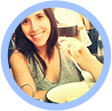
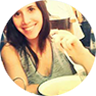
added top-rated section to feed page

diff --git a/public/index.html b/public/index.html
@@ -21,7 +21,7 @@
         <section>
           <p class="greeting">Hello</p>
           <h3 class="name">Ilana Krybus</h3>
-          <div>
+          <div class="date-container">
             <svg id="date_icon" xmlns="http://www.w3.org/2000/svg" xmlns:xlink="http://www.w3.org/1999/xlink"
                  version="1.1"
                  x="0px" y="0px" viewBox="-2.357 -2.951 1024 1280" enable-background="new -2.357 -2.951 1024 1024" xml:space="preserve"><polygon display="none" stroke="#000000" stroke-width="40" stroke-miterlimit="10" points="66.643,373.927   512.931,38.939 958.643,373.927 958.643,997.158 667.503,997.158 667.477,623.219 362.678,623.193 362.678,997.158 66.643,997.158   "/><path display="none" stroke="#000000" stroke-width="40" stroke-miterlimit="10" d="M691.643,222.494  c0,102.725-83.275,186-186,186c-102.725,0-186-83.275-186-186s83.275-186,186-186C608.368,36.494,691.643,119.769,691.643,222.494z   M797.643,762.604c0-141.385-114.615-256-256-256h-72c-141.385,0-256,114.615-256,256v228h584V762.604z"/><path display="none" fill="none" stroke="#000000" stroke-width="40" stroke-miterlimit="10" d="M996.452,158.049  v696h-968v-696H996.452z M28.452,158.049l398,387c0,0,86,95,190,0l380-387 M996.452,854.049l-343.84-347.445 M28.452,854.049  l359.654-347.445"/><path display="none" stroke="#000000" stroke-width="40" stroke-miterlimit="10" d="M316.252,412.859  c0,0,96.009,189.019,288.029,288.029c0,0,21.255,6.243,45.254-17.756l37.498-35.999c0,0,25.499-38.997,86.996-7.499L948.02,741.629  c0,0,61.497,25.498,0,85.495L834.026,942.618c0,0-25.498,47.997-152.992,19.499c0,0-433.789-114.215-622.808-612.265  c0,0-42.004-90.009,18.002-162.016L202.24,60.823c0,0,51.315-42.16,76.814,17.837l92.995,176.991c0,0,34.499,40.498-9,85.496  l-38.998,35.998C324.052,377.145,303.373,390.142,316.252,412.859z"/><path display="none" fill="none" stroke="#000000" stroke-width="40" stroke-miterlimit="10" d="M57.413,404.149  h327h246h327 M342.423,254.049c25.5-145.6,161.9-137.89,161.9-137.89s136.58-10.71,168.08,137.89 M913.413,254.049h-812  c-24.3,0-44,19.7-44,44v568c0,24.3,19.7,44,44,44h812c24.301,0,44-19.7,44-44v-568C957.413,273.749,937.713,254.049,913.413,254.049  z M630.413,459.049c0,24.3-19.699,44-44,44h-158c-24.3,0-44-19.7-44-44v-55h246V459.049z"/><path display="none" d="M999.756,449.591c0,125.565-121.096,233.427-294.189,280.345L552.958,883.877l-41.166-128.914  c-269.497,0-487.966-136.719-487.966-305.372c0-168.651,218.469-305.37,487.966-305.37  C781.288,144.221,999.756,280.94,999.756,449.591z M232.894,409.631c-29.124,0-52.733,23.609-52.733,52.733  c0,29.123,23.609,52.732,52.733,52.732s52.733-23.609,52.733-52.732C285.627,433.241,262.018,409.631,232.894,409.631z   M512.228,409.631c-29.125,0-52.734,23.609-52.734,52.733c0,29.122,23.609,52.731,52.734,52.731  c29.122,0,52.731-23.609,52.731-52.731C564.959,433.241,541.35,409.631,512.228,409.631z M778.542,409.631  c-29.123,0-52.732,23.609-52.732,52.733c0,29.122,23.609,52.731,52.732,52.731c29.122,0,52.731-23.609,52.731-52.731  C831.273,433.241,807.664,409.631,778.542,409.631z"/><path display="none" fill="none" stroke="#000000" stroke-width="40" stroke-miterlimit="10" d="M982.51,268.844  v471.057c0,56.333-45.667,102-102,102H145.417c-56.333,0-102-45.667-102-102V172.825h741.074v565.066  c0,0-5.768,104.011,85.728,104.735 M880.717,270.155v506.738 M136.429,319.848h543.054 M679.483,441.859H136.429 M136.429,563.87  h306.03 M442.459,685.882H136.429"/><path display="none" stroke="#000000" stroke-width="40" stroke-miterlimit="10" d="M365.415,791.131  c0,92.189-74.736,166.927-166.927,166.927c-92.192,0-166.928-74.737-166.928-166.927c0-92.193,74.736-166.928,166.928-166.928  C290.679,624.203,365.415,698.938,365.415,791.131z M558.806,21.636c-84.321,0-152.677,68.356-152.677,152.677  c0,84.322,68.356,152.678,152.677,152.678c84.322,0,152.68-68.356,152.68-152.678C711.486,89.992,643.128,21.636,558.806,21.636z   M865.875,728.053c-73.079,0-132.319,59.242-132.319,132.321s59.24,132.32,132.319,132.32s132.32-59.241,132.32-132.32  S938.954,728.053,865.875,728.053z M733.555,860.374l-370.618-40.479 M473.582,301.007L269.981,640.255"/><path display="none" stroke="#000000" stroke-width="40" stroke-miterlimit="10" d="M595.688,923.844  c0,41.536-33.67,75.205-75.205,75.205l0,0c-41.533,0-75.203-33.669-75.203-75.205V370.069c0-41.534,33.67-75.204,75.203-75.204l0,0  c41.535,0,75.205,33.67,75.205,75.204V923.844z M520.484,21.395c-52.861,0-95.714,42.853-95.714,95.714  c0,52.862,42.853,95.714,95.714,95.714s95.714-42.852,95.714-95.714C616.198,64.248,573.345,21.395,520.484,21.395z"/><polygon display="none" stroke="#000000" stroke-width="40" stroke-miterlimit="10" points="527.467,127.833   47.419,509.049 527.467,880.909 527.467,691.89 965.511,690.889 965.511,325.854 527.467,325.853 "/><polygon display="none" stroke="#000000" stroke-width="40" stroke-miterlimit="10" points="484.641,880.909   964.689,499.694 484.641,127.834 484.641,316.854 46.597,317.854 46.597,682.89 484.641,682.89 "/><path display="none" fill="none" stroke="#000000" stroke-width="40" stroke-miterlimit="10" d="M989.542,510.458  c0,263.848-213.891,477.738-477.738,477.738S34.065,774.306,34.065,510.458c0-263.849,213.891-477.738,477.738-477.738  S989.542,246.609,989.542,510.458z M732.326,513.644H295.285 M495.483,702.477L291.282,513.644l204.201-195.205"/><path display="none" fill="none" stroke="#000000" stroke-width="40" stroke-miterlimit="10" d="M34.065,510.458  c0-263.848,213.891-477.738,477.738-477.738S989.542,246.61,989.542,510.458c0,263.849-213.891,477.738-477.738,477.738  S34.065,774.307,34.065,510.458z M291.281,507.272h437.041 M528.124,318.439l204.201,188.833L528.124,702.478"/><path display="none" fill="none" stroke="#000000" stroke-width="40" stroke-miterlimit="10" d="M511.883,760.457  l-0.16-499.999 M761.803,510.377l-500,0.16 M987.381,509.048c0,263.848-213.891,477.739-477.738,477.739  S31.905,772.896,31.905,509.048c0-263.848,213.891-477.738,477.738-477.738S987.381,245.201,987.381,509.048z"/><path display="none" fill="none" stroke="#000000" stroke-width="40" stroke-miterlimit="10" d="M511.883,760.457   M761.803,510.377l-500,0.16 M987.381,509.049c0,263.848-213.891,477.738-477.738,477.738S31.905,772.896,31.905,509.049  c0-263.848,213.891-477.738,477.738-477.738S987.381,245.201,987.381,509.049z"/><path display="none" fill="none" stroke="#000000" stroke-width="40" stroke-miterlimit="10" d="M688.523,333.623  L335.084,687.289 M334.97,333.736l353.666,353.44 M987.381,509.048c0,263.848-213.891,477.739-477.738,477.739  S31.905,772.896,31.905,509.048c0-263.848,213.891-477.738,477.738-477.738S987.381,245.201,987.381,509.048z"/><circle display="none" fill="none" stroke="#000000" stroke-width="40" stroke-miterlimit="10" cx="451.507" cy="449.111" r="415.798"/><polyline display="none" stroke="#000000" stroke-width="40" stroke-miterlimit="10" points="716.703,770.242 921.415,985.453   977.35,929.517 771.609,713.277 "/><circle display="none" fill="none" stroke="#000000" stroke-width="40" stroke-miterlimit="10" cx="454.621" cy="448.776" r="415.798"/><polyline display="none" stroke="#000000" stroke-width="40" stroke-miterlimit="10" points="719.816,769.908 924.528,985.119   980.463,929.182 774.722,712.943 "/><line display="none" fill="none" stroke="#000000" stroke-width="40" stroke-miterlimit="10" x1="454.62" y1="607.793" x2="454.62" y2="289.761"/><line display="none" fill="none" stroke="#000000" stroke-width="40" stroke-miterlimit="10" x1="295.604" y1="448.777" x2="613.637" y2="448.777"/><circle display="none" fill="none" stroke="#000000" stroke-width="40" stroke-miterlimit="10" cx="454.621" cy="448.776" r="415.798"/><polyline display="none" stroke="#000000" stroke-width="40" stroke-miterlimit="10" points="719.816,769.908 924.528,985.119   980.463,929.182 774.722,712.943 "/><line display="none" fill="none" stroke="#000000" stroke-width="40" stroke-miterlimit="10" x1="295.604" y1="448.777" x2="613.637" y2="448.777"/><polygon display="none" stroke="#000000" stroke-width="40" stroke-miterlimit="10" points="514.963,64.942   655.765,353.34 982.616,404.611 748.789,648.148 799.962,968.59 514.963,817.982 223.167,968.59 280.847,648.148 43.719,404.611   373.776,353.34 "/><path display="none" stroke="#000000" stroke-width="40" stroke-miterlimit="10" d="M511.059,138.027  c0,0,277.105-171.473,441.071,60.519c0,0,113.213,181.046-19.33,387.3c0,0-104.596,197.247-421.741,363.518  c0,0-287.485-143.595-411.168-347.374c0,0-140.345-188.672-36.18-392.091C63.711,209.898,184.678-37.482,511.059,138.027z"/><path display="none" stroke="#000000" stroke-width="40" stroke-miterlimit="10" d="M126.643,848.049l132-348c0,0,20-76,68-74  s630,0.961,630,0.961s60,7.039,40,67.039l-136,354H126.643z"/><path display="none" fill="none" stroke="#000000" stroke-width="40" stroke-miterlimit="10" d="M876.643,358.049c0,0,0-50-56-54  h-428l-66-120h-256c0,0-46,0-48,54v492c0,0,6,54,56,54"/><path display="none" stroke="#000000" stroke-width="40" stroke-miterlimit="10" d="M891.973,221.419h-761  c-55.24,0-100.03,44.78-100.03,100.03v427.57c0,55.24,44.79,100.03,100.03,100.03h761c55.25,0,100.03-44.79,100.03-100.03v-427.57  C992.003,266.199,947.223,221.419,891.973,221.419z M511.473,756.379c-122.13,0-221.14-99.01-221.14-221.15  c0-122.13,99.01-221.14,221.14-221.14c122.14,0,221.14,99.01,221.14,221.14C732.613,657.369,633.613,756.379,511.473,756.379z   M637.003,113.299h-251.05c-55.25,0-100.03,50.67-100.03,105.91h451.11C737.033,163.969,692.243,113.299,637.003,113.299z"/><path display="none" stroke="#000000" stroke-width="40" stroke-miterlimit="10" d="M881.813,461.159l101.3-73.4  l-52.62-125.4l-120.68,16.8l-62.17-60V85.629l-110.11-44.11l-81.72,95.64h-80l-79.35-97.43l-120.65,47.87v131.56l-64,60  l-119.97-8.85l-47.96,117.45l95.93,77.4v92l-94.14,83.529l44.54,107.891h135.6l50,61.58l-12.06,117.01l132.71,54.88l69.35-94.89h100  l71.72,91.89l124.95-51.43l-14.84-120.46l58.17-58.58h130.97l44.53-107.891l-99.5-85.529V461.159z M513.493,734.259  c-123.359,0-223.37-100-223.37-223.37c0-123.37,100.01-223.37,223.37-223.37c123.37,0,223.381,100,223.381,223.37  C736.874,634.259,636.863,734.259,513.493,734.259z"/><path display="none" stroke="#000000" stroke-width="40" stroke-miterlimit="10" d="M678.591,567.232  c0,88.896-72.064,160.961-160.961,160.961l0,0c-88.896,0-160.96-72.065-160.96-160.961V186.01  c0-88.896,72.064-160.961,160.96-160.961l0,0c88.896,0,160.961,72.064,160.961,160.961V567.232z"/><path display="none" fill="none" stroke="#000000" stroke-width="40" stroke-miterlimit="10" d="M256.069,564.354  c0,144.456,117.104,261.561,261.561,261.561l0,0c144.456,0,261.562-117.104,261.562-261.561"/><line display="none" fill="none" stroke="#000000" stroke-width="40" stroke-miterlimit="10" x1="517.631" y1="995.049" x2="517.63" y2="825.915"/><line display="none" fill="none" stroke="#000000" stroke-width="40" stroke-miterlimit="10" x1="350.36" y1="995.049" x2="684.901" y2="995.049"/><path display="none" fill="none" stroke="#000000" stroke-width="40" stroke-miterlimit="10" d="M55.833,869.292v-285.3  c0-267.201,204.21-483.811,456.117-483.811l0,0c251.906,0,456.116,216.609,456.116,483.811v285.3"/><path display="none" stroke="#000000" stroke-width="40" stroke-miterlimit="10" d="M245.575,523.243  c0-37.352-28.547-67.634-63.762-67.634l0,0c-35.216,0-63.763,30.282-63.763,67.634v331.175c0,37.353,28.546,67.635,63.763,67.635  l0,0c35.215,0,63.762-30.282,63.762-67.635V523.243z"/><path display="none" stroke="#000000" stroke-width="40" stroke-miterlimit="10" d="M905.849,523.243  c0-37.352-28.548-67.634-63.764-67.634l0,0c-35.216,0-63.763,30.282-63.763,67.634v331.175c0,37.353,28.547,67.635,63.763,67.635  l0,0c35.216,0,63.764-30.282,63.764-67.635V523.243z"/><path display="none" stroke="#000000" stroke-width="40" stroke-miterlimit="10" d="M412.643,683.002h-222v-342h222  l308-262c0,0,66-40,66,40v780c0,0-2,90-72,42L412.643,683.002z"/><path display="none" stroke="#000000" stroke-width="40" stroke-miterlimit="10" d="M372.364,259.544L591.643,76.002  c0,0,66-40,66,40v427.047L372.364,259.544z"/><path display="none" stroke="#000000" stroke-width="40" stroke-miterlimit="10" d="M253.643,338.002h-192v342h222  l302,258c70,48,72-42,72-42V733.049L253.643,338.002z"/><line display="none" fill="none" stroke="#000000" stroke-width="40" stroke-miterlimit="10" x1="73.643" y1="63.002" x2="963.643" y2="949.096"/><polygon display="none" stroke="#000000" stroke-width="40" stroke-miterlimit="10" points="158.643,51.049   158.643,974.049 902.643,509.049 "/><path display="none" stroke="#000000" stroke-width="40" stroke-miterlimit="10" d="M387.643,857.049h-152v-696h152  V857.049z M783.643,161.049h-152v696h152V161.049z"/><path display="none" d="M564.643,48.049h406v418l-506,498l-406-404L564.643,48.049z M808.643,151.049  c-36.451,0-66,29.549-66,66s29.549,66,66,66s66-29.549,66-66S845.094,151.049,808.643,151.049z"/><path display="none" fill="none" stroke="#000000" stroke-width="40" stroke-miterlimit="10" d="M515.325,18.049v988   M254.587,692.049c29.944,208,260.738,186,260.738,186c289.318,0.671,253.318-202,253.318-202c-10-148-253.318-167-253.318-167  c-271.318-23-260.682-191-260.682-191c-0.056-204,260.682-190,260.682-190c230.682-2,253.318,190,253.318,190"/><path display="none" stroke="#000000" stroke-width="40" stroke-miterlimit="10" d="M317.643,242.049h662l-174,414  h-438l-164-414h-186H317.643z M419.643,726.049c-25.958,0-47,21.043-47,47s21.042,47,47,47s47-21.043,47-47  S445.601,726.049,419.643,726.049z M751.643,726.049c-25.957,0-47,21.043-47,47s21.043,47,47,47s47-21.043,47-47  S777.6,726.049,751.643,726.049z"/><path display="none" stroke="#000000" stroke-width="40" stroke-miterlimit="10" d="M863.264,373.839  c0,48.341-9.798,94.395-27.516,136.282C782.598,635.785,513.143,984.38,513.143,984.38S243.688,635.785,190.537,510.121  c-17.717-41.887-27.514-87.94-27.514-136.282c0-193.366,156.754-350.12,350.12-350.12S863.264,180.473,863.264,373.839z   M513.143,200.112c-86.358,0-156.365,70.007-156.365,156.365c0,86.357,70.007,156.365,156.365,156.365  c86.358,0,156.364-70.008,156.364-156.365C669.507,270.12,599.501,200.112,513.143,200.112z"/><path display="none" stroke="#000000" stroke-width="40" stroke-miterlimit="10" d="M276.643,156.049l233,92l245-92  l156,56l80,644l-236-96l-243.5,96l-234.5-102l-248,102l86-644L276.643,156.049z M510.143,856.049v-0.44"/><path display="none" stroke="#000000" stroke-width="40" stroke-miterlimit="10" d="M901.694,509.048  c0,216.524-175.527,392.051-392.051,392.051S117.592,725.572,117.592,509.048c0-216.523,175.527-392.051,392.051-392.051  S901.694,292.525,901.694,509.048z M509.643,239.837V10.818 M509.643,993.856v-229.02 M18.124,509.049h229.019 M772.143,509.049  h229.02 M509.643,411.389c-53.936,0-97.66,43.724-97.66,97.66c0,53.936,43.724,97.66,97.66,97.66c53.936,0,97.66-43.725,97.66-97.66  C607.303,455.112,563.579,411.389,509.643,411.389z"/><path display="none" stroke="#000000" stroke-width="40" stroke-miterlimit="10" d="M736.097,770.177  c0,125.067-101.387,226.454-226.454,226.454l0,0c-125.067,0-226.454-101.387-226.454-226.454V389.087  c0-125.067,101.387-226.454,226.454-226.454l0,0c125.067,0,226.454,101.387,226.454,226.454V770.177z M549.168,319.797  c0-21.83-17.695-39.526-39.525-39.526l0,0c-21.83,0-39.525,17.696-39.525,39.526v180.309c0,21.829,17.696,39.525,39.525,39.525l0,0  c21.83,0,39.525-17.696,39.525-39.525V319.797z M509.643,162.633c0,0,3.296-112.282-90.815-141.166"/><path display="none" fill="none" stroke="#000000" stroke-width="50" stroke-miterlimit="10" d="M995.967,325.328v546.19  c0,70.84-57.428,128.268-128.268,128.268H165.379c-70.841,0-128.268-57.428-128.268-128.268V156.581  c0-70.841,57.427-128.269,128.268-128.269h502.559"/><polygon display="none" stroke="#000000" stroke-width="40" stroke-miterlimit="10" points="406.647,451.249 567.78,614.214   989.84,194.9 829.623,34.683 "/><polygon display="none" stroke="#000000" stroke-width="40" stroke-miterlimit="10" points="373.615,516.917 327.446,693.199   502.329,649.828 "/><path display="none" fill="none" stroke="#000000" stroke-width="40" stroke-miterlimit="10" d="M511.883,523.457  l-0.16-402.999 M738.803,740.377l-229-229.84 M987.381,509.049c0,263.848-213.891,477.738-477.738,477.738  S31.905,772.896,31.905,509.049c0-263.848,213.891-477.738,477.738-477.738S987.381,245.201,987.381,509.049z"/><path fill="none" stroke="#000000" stroke-width="50" stroke-miterlimit="10" d="M991.643,867.077  c0,36.21-29.354,65.564-65.564,65.564H98.208c-36.21,0-65.564-29.354-65.564-65.564V238.834c0-36.21,29.354-65.564,65.564-65.564  h827.871c36.211,0,65.564,29.354,65.564,65.564V867.077z"/><line fill="none" stroke="#000000" stroke-width="50" stroke-miterlimit="10" x1="223.464" y1="73.456" x2="223.464" y2="255.47"/><line fill="none" stroke="#000000" stroke-width="50" stroke-miterlimit="10" x1="800.822" y1="73.456" x2="800.822" y2="255.47"/><rect x="182.393" y="407.549" stroke="#000000" stroke-width="40" stroke-miterlimit="10" width="122" height="122"/><rect x="448.393" y="407.549" stroke="#000000" stroke-width="40" stroke-miterlimit="10" width="122" height="122"/><rect x="719.893" y="407.549" stroke="#000000" stroke-width="40" stroke-miterlimit="10" width="122" height="122"/><rect x="180.893" y="649.549" stroke="#000000" stroke-width="40" stroke-miterlimit="10" width="122" height="122"/><rect x="446.893" y="649.549" stroke="#000000" stroke-width="40" stroke-miterlimit="10" width="122" height="122"/><rect x="718.393" y="649.549" stroke="#000000" stroke-width="40" stroke-miterlimit="10" width="122" height="122"/><path display="none" fill="none" stroke="#000000" stroke-width="40" stroke-miterlimit="10" d="M876.426,524.502  c0,204.491-165.773,370.265-370.266,370.265c-204.492,0-370.266-165.773-370.266-370.265c0-204.493,165.774-370.266,370.266-370.266  C710.653,154.236,876.426,320.009,876.426,524.502z M314.079,524.502h204.538V288.497 M818.736,1008.049L705.083,838.835   M193.585,1008.049l119.946-169.214 M352.626,21.549C132.355,82.386,61.029,275.385,61.029,275.385 M666.25,21.549  c220.271,60.837,291.597,253.836,291.597,253.836"/><path display="none" fill="none" stroke="#000000" stroke-width="40" stroke-miterlimit="10" d="M759.041,930.729  c0,36.709-29.76,66.469-66.47,66.469H313.55c-36.709,0-66.469-29.76-66.469-66.469V87.369c0-36.709,29.759-66.469,66.469-66.469  h379.021c36.71,0,66.47,29.759,66.47,66.469V930.729z M762.018,160.796H244.104 M244.104,835.475h517.914 M503.061,882.994  c-18.133,0-32.831,14.697-32.831,32.83c0,18.131,14.698,32.83,32.831,32.83s32.83-14.699,32.83-32.83  C535.891,897.691,521.194,882.994,503.061,882.994z M571.521,88.368H434.602"/><path display="none" fill="none" stroke="#000000" stroke-width="40" stroke-miterlimit="10" d="M912.531,686.996  c0,18.306-14.84,33.146-33.146,33.146H139.901c-18.306,0-33.146-14.84-33.146-33.146V217.804c0-18.306,14.84-33.146,33.146-33.146  h739.483c18.307,0,33.146,14.84,33.146,33.146V686.996z M973.189,803.436c0-16.57-13.432-30.003-30.002-30.003H76.1  c-16.57,0-30.003,13.433-30.003,30.003l0,0c0,16.57,13.433,30.003,30.003,30.003h867.087  C959.757,833.438,973.189,820.006,973.189,803.436L973.189,803.436z"/><path display="none" fill="none" stroke="#000000" stroke-width="40" stroke-miterlimit="10" d="M985.191,703.07  c0,21.539-17.461,39-39,39H73.096c-21.539,0-39-17.461-39-39V202.013c0-21.539,17.461-39,39-39h873.095c21.539,0,39,17.461,39,39  V703.07z M811.174,828.08c0-14.912-12.09-27.002-27.003-27.002H235.116c-14.913,0-27.003,12.09-27.003,27.002l0,0  c0,14.914,12.09,27.004,27.003,27.004h549.055C799.084,855.084,811.174,842.994,811.174,828.08L811.174,828.08z"/><path display="none" fill="none" stroke="#000000" stroke-width="40" stroke-miterlimit="10" d="M849.086,955.718  c0,23.405-18.975,42.38-42.38,42.38H216.578c-23.406,0-42.38-18.975-42.38-42.38V62.38c0-23.406,18.974-42.38,42.38-42.38h590.128  c23.405,0,42.38,18.974,42.38,42.38V955.718z M511.642,437.203c-134.147,0-242.895,108.747-242.895,242.895  c0,134.146,108.748,242.894,242.895,242.894c134.147,0,242.895-108.747,242.895-242.894  C754.537,545.95,645.79,437.203,511.642,437.203z M511.642,587.179c-51.318,0-92.919,41.601-92.919,92.919  c0,51.317,41.601,92.919,92.919,92.919c51.317,0,92.919-41.602,92.919-92.919C604.561,628.779,562.959,587.179,511.642,587.179z   M511.642,98.596c-64.523,0-116.828,52.306-116.828,116.828c0,64.522,52.305,116.828,116.828,116.828  c64.523,0,116.827-52.306,116.827-116.828C628.469,150.901,576.166,98.596,511.642,98.596z"/><path display="none" fill="none" stroke="#000000" stroke-width="40" stroke-miterlimit="10" d="M278.234,797.422  H60.104C37.955,797.422,20,779.468,20,757.318V291.445c0-22.149,17.955-40.104,40.104-40.104h219.138 M743.503,797.422h217.488  c22.148,0,40.104-17.954,40.104-40.104V291.445c0-22.149-17.955-40.104-40.104-40.104H748.54 M745.055,677.065H273.019  l3.021,262.276h472.036L745.055,677.065z M746.565,74.756H274.53v302.821h472.035V74.756z M1001.095,447.45H20 M341.678,759.646  h338.383 M341.355,853.306h338.382"/><path display="none" fill="none" stroke="#000000" stroke-width="40" stroke-miterlimit="10" d="M925.556,825.707  c0,92.271-74.802,167.074-167.074,167.074H261.176c-92.273,0-167.075-74.803-167.075-167.074V529.51  c0-92.271,74.802-167.074,167.075-167.074h497.306c92.272,0,167.074,74.802,167.074,167.074V825.707z M716.942,290.902v-58.04  c0-114.386-92.728-207.114-207.113-207.114l0,0c-114.385,0-207.113,92.728-207.113,207.114v58.04 M509.83,569.55  c-59.68,0-108.059,48.379-108.059,108.058c0,59.68,48.379,108.061,108.059,108.061c59.679,0,108.059-48.381,108.059-108.061  C617.888,617.929,569.508,569.55,509.83,569.55z"/><path display="none" fill="none" stroke="#000000" stroke-width="40" stroke-miterlimit="10" d="M263.123,279.761  L20.233,522.65 M263.323,738.338L20.434,495.447 M337.601,849.281l346.968-680.464 M1001.937,522.65L759.048,279.761   M1001.736,495.447L758.847,738.338"/><path display="none" fill="none" stroke="#000000" stroke-width="40" stroke-miterlimit="10" d="M513.835,24.049  l381.071,75.584v522.793c0,0,8.398,197.358-381.071,371.623c0,0-343.279-121.774-389.47-363.226V101.732L513.835,24.049z   M312.36,456.927l132.936,132.937l261.63-261.63"/><path display="none" fill="none" stroke="#000000" stroke-width="40" stroke-miterlimit="10" d="M1018.643,890.653  H30.635V127.444 M279.988,396.169H170.046v381.563h109.941V396.169z M577.477,234.491H467.536v543.242h109.941V234.491z   M842.631,347.666H732.69v430.066h109.941V347.666z"/><path display="none" fill="none" stroke="#000000" stroke-width="40" stroke-miterlimit="10" d="M875.037,995.917  H143.4V23.039h466.667l264.97,268.925V995.917z M610.887,22.164l0.987,270.89h264.959 M512.29,150.37H229.312 M512.29,293.151  H229.312 M789.125,435.933H229.312 M789.125,578.715H229.312 M789.125,721.497H229.312 M789.125,864.278H229.312"/><path display="none" fill="none" stroke="#000000" stroke-width="40" stroke-miterlimit="10" d="M991.64,1000.918  H63.103V20.039h724.246L991.64,234.426V1000.918z M774.875,20.039H279.867v281.496h495.008V20.039z M800.258,678.661H254.485   M254.485,834.78h545.773"/><path display="none" fill="none" stroke="#000000" stroke-width="40" stroke-miterlimit="10" d="M24.738,521.02  c97.19,159.515,278.843,266.835,486.896,266.835c208.055,0,389.707-107.32,486.896-266.834  c-97.746-157.415-280.499-266.841-486.896-266.841c-207.682,0-389.056,106.938-486.373,265.979L24.738,521.02z M653.78,521.018  c0,78.505-63.64,142.145-142.146,142.145c-78.505,0-142.146-63.64-142.146-142.145c0-78.506,63.64-142.147,142.146-142.147  C590.14,378.871,653.78,442.512,653.78,521.018z"/><path display="none" fill="none" stroke="#000000" stroke-width="40" stroke-miterlimit="10" d="M852.725,533.277  c0,147.624-119.674,267.298-267.299,267.298H445.86c-147.625,0-267.299-119.674-267.299-267.298V374.444h674.164V533.277z   M366.26,73.804c0-26.547-21.521-48.068-48.068-48.068l0,0c-26.547,0-48.068,21.521-48.068,48.068v300.817h96.136V73.804z   M761.162,374.621h-96.137V73.804c0-26.547,21.522-48.068,48.069-48.068l0,0c26.547,0,48.067,21.521,48.067,48.068V374.621z   M519.195,800.575c-2.787,145.506,49.786,205.474,49.786,205.474"/><polygon display="none" fill="none" stroke="#000000" stroke-width="40" stroke-miterlimit="10" points="  434.437,28.049 774.656,28.049 559.781,332.455 774.656,332.455 262.537,901.874 438.018,515.1 244.631,515.1 "/><path display="none" fill="none" stroke="#000000" stroke-width="40" stroke-miterlimit="10" d="M861.824,860.256  c0,36.339-29.457,65.796-65.795,65.796H87.282c-36.338,0-65.795-29.457-65.795-65.796V299.262c0-36.338,29.458-65.796,65.795-65.796  h708.747c36.338,0,65.795,29.458,65.795,65.796V860.256z M774.096,806.004L621.728,482.797L432.421,718.276L293.904,565.907  L109.214,806.004H774.096z M280.052,404.304c0,28.051-22.739,50.79-50.79,50.79c-28.051,0-50.79-22.739-50.79-50.79  c0-28.05,22.739-50.79,50.79-50.79C257.313,353.514,280.052,376.253,280.052,404.304z M933.947,788.22  c36.339,0,65.796-29.457,65.796-65.796V161.43c0-36.338-29.457-65.795-65.796-65.795H225.201c-36.338,0-65.796,29.458-65.796,65.795  "/><path display="none" fill="none" stroke="#000000" stroke-width="40" stroke-miterlimit="10" d="M718.414,747.549  c0,38.653-31.334,69.985-69.986,69.985H90.394c-38.652,0-69.986-31.332-69.986-69.985V298.104c0-38.652,31.333-69.987,69.986-69.987  h558.034c38.652,0,69.986,31.334,69.986,69.987V747.549z M999.068,283.84L718.414,400.767v244.117l280.654,116.929V283.84z"/><path display="none" fill="none" stroke="#000000" stroke-width="40" stroke-miterlimit="10" d="M311.135,823.42  V177.39l689.326-72.173V823.42 M166.774,686.277c-79.728,0-144.36,56.553-144.36,126.315s64.632,126.315,144.36,126.315  s144.36-56.553,144.36-126.315S246.502,686.277,166.774,686.277z M856.458,687.277c-79.729,0-144.359,56.553-144.359,126.315  s64.631,126.315,144.359,126.315c79.729,0,144.36-56.553,144.36-126.315S936.188,687.277,856.458,687.277z M311.135,335.047  l689.326-72.173"/><path display="none" fill="none" stroke="#000000" stroke-width="40" stroke-miterlimit="10" d="  M287.984,904.16H24.638V640.813 M737.166,904.16h263.347V640.813 M287.984,101.823H24.638V365.17 M1000.512,365.17V101.823H737.166"/><path display="none" fill="none" stroke="#000000" stroke-width="40" stroke-miterlimit="10" d="  M5.177,652.368h273.849v273.849 M1019.972,652.368H746.122v273.849 M5.177,365.73h273.849V91.88 M746.122,91.88v273.85h273.851"/><path display="none" fill="none" stroke="#000000" stroke-width="40" stroke-miterlimit="10" d="M156.947,841.725  H32.643V550.252h124.304V841.725z M434.846,400.23H310.542v441.495h124.304V400.23z M712.745,271.64H588.441v570.085h124.304V271.64  z M990.643,143.049H866.338v698.676h124.305V143.049z"/><path display="none" fill="none" stroke="#000000" stroke-width="40" stroke-miterlimit="10" d="M186.276,280.299  c0,21.077-17.086,38.164-38.164,38.164H62.806c-21.077,0-38.163-17.086-38.163-38.164v-85.306c0-21.077,17.086-38.163,38.163-38.163  h85.306c21.077,0,38.164,17.086,38.164,38.163V280.299z M186.276,471.396c0-21.077-17.086-38.164-38.164-38.164H62.806  c-21.077,0-38.163,17.086-38.163,38.164v85.307c0,21.076,17.086,38.162,38.163,38.162h85.306c21.077,0,38.164-17.086,38.164-38.162  V471.396z M186.276,747.799c0-21.076-17.086-38.164-38.164-38.164H62.806c-21.077,0-38.163,17.088-38.163,38.164v85.307  c0,21.076,17.086,38.162,38.163,38.162h85.306c21.077,0,38.164-17.086,38.164-38.162V747.799z M996.31,202.85H295.901v69.592H996.31  V202.85z M996.31,479.253H295.901v69.593H996.31V479.253z M996.31,755.656H295.901v69.592H996.31V755.656z"/><path display="none" fill="none" stroke="#000000" stroke-width="40" stroke-miterlimit="10" d="M433.143,399.049  c0,18.778-15.222,34-34,34h-341c-18.778,0-34-15.222-34-34v-341c0-18.778,15.222-34,34-34h341c18.778,0,34,15.222,34,34V399.049z   M998.143,58.049c0-18.778-15.223-34-34-34h-341c-18.777,0-34,15.222-34,34v341c0,18.777,15.223,34,34,34h341  c18.777,0,34-15.223,34-34V58.049z M433.143,623.049c0-18.777-15.222-34-34-34h-341c-18.778,0-34,15.223-34,34v341  c0,18.777,15.222,34,34,34h341c18.778,0,34-15.223,34-34V623.049z M998.143,623.049c0-18.777-15.223-34-34-34h-341  c-18.777,0-34,15.223-34,34v341c0,18.777,15.223,34,34,34h341c18.777,0,34-15.223,34-34V623.049z"/><path display="none" fill="none" stroke="#000000" stroke-width="40" stroke-miterlimit="10" d="M828.436,162.605  v743.917c0,49.322-39.983,89.305-89.305,89.305H290.286c-49.321,0-89.304-39.982-89.304-89.305V162.605 M982.755,157.798H46.662   M723.295,157.825V83.182c0-32.464-26.318-58.783-58.783-58.783H364.905c-32.465,0-58.782,26.318-58.782,58.783v74.643   M341.735,284.144V874.29 M514.709,874.29V284.144 M687.683,874.29V284.144"/><text x="-2.357" y="1036.049" fill="#000000" font-size="5px" font-weight="bold" font-family="'Helvetica Neue', Helvetica, Arial-Unicode, Arial, Sans-serif">Created by shashank singh</text><text x="-2.357" y="1041.049" fill="#000000" font-size="5px" font-weight="bold" font-family="'Helvetica Neue', Helvetica, Arial-Unicode, Arial, Sans-serif">from the Noun Project</text></svg>
@@ -32,6 +32,15 @@
              x="0px"
              y="0px" viewBox="0 0 100 125" style="enable-background:new 0 0 100 100;" xml:space="preserve"><path d="M50,0C22.4,0,0,22.4,0,50c0,27.6,22.4,50,50,50c27.6,0,50-22.4,50-50C100,22.4,77.6,0,50,0z M50,96.3  C24.5,96.3,3.7,75.5,3.7,50S24.5,3.7,50,3.7S96.3,24.5,96.3,50S75.5,96.3,50,96.3z"/><path d="M41.4,58.6v17.7l17.1,0.1V58.6l18.2-24.2H23.2L41.4,58.6z M54.8,57.4v15.3l-9.7-0.1V57.4L30.7,38.2h38.7L54.8,57.4z"/></svg>
       </header>
+      <section class="top-rated">
+        <svg xmlns="http://www.w3.org/2000/svg" xmlns:xlink="http://www.w3.org/1999/xlink" version="1.1" x="0px"
+             y="0px" viewBox="0 0 100 125" enable-background="new 0 0 100 100" xml:space="preserve"><path d="M76.965,90.416L50,76.24L23.035,90.416l5.15-30.025L6.369,39.125l30.148-4.381L50,7.426l13.482,27.319l30.149,4.381  L71.814,60.391L76.965,90.416z M27.859,46.108L38.93,56.898l-2.614,15.238L50,64.943l13.684,7.193L61.07,56.898l11.071-10.791  l-15.3-2.223L50,30.021l-6.842,13.863L27.859,46.108z"/></svg>
+        <div class="category">
+          <h2>TOP RATED</h2>
+          <a href="#">See all</a>
+        </div>
+        <div id="top-rated-list"></div>
+      </section>
       <div id="content"></div>
     </div>
     <!--<script type="text/babel" src="scripts/example.js"></script>-->

diff --git a/public/scripts/feed.js b/public/scripts/feed.js
@@ -2,9 +2,6 @@ var Sitter = React.createClass({
   render: function () {
     return (
       <div className="sitter">
-        <h2 className="sitterMail">
-          {this.props.email}
-        </h2>
         {this.props.children}
       </div>
     );
@@ -15,12 +12,13 @@ var SittersList = React.createClass({
   render: function() {
     var sitterNodes = this.props.data.map(function (sitter) {
       return(
-        <Sitter key={sitter.id}>
-          <h3>
+        <Sitter key={sitter.email}>
+          <p>{sitter.profilePictureURL}</p>
+          <h3 class="sitter-name">
             {sitter.name}
           </h3>
           <p>
-            {sitter.email}
+            {sitter.rating}
           </p>
         </Sitter>
       );
@@ -33,87 +31,7 @@ var SittersList = React.createClass({
   }
 });
 
-var CommentForm = React.createClass({
-  getInitialState: function () {
-    return {email: '', name: ''};
-  },
-
-  handleEmailChange: function (e) {
-    this.setState({email: e.target.value});
-  },
-
-  handleNameChange: function (e) {
-    this.setState({name: e.target.value});
-  },
-
-  handleSubmit: function (e) {
-    e.preventDefault();
-    var email = this.state.email.trim();
-    var name = this.state.name.trim();
-    if (!email || !name) {
-      return;
-    }
-    this.props.onSitterSubmit({email: email, name: name});
-    this.setState({email: '', name: ''});
-  },
-
-  render: function() {
-    return (
-      <form className="commentForm" onSubmit={this.handleSubmit}>
-        <input
-          type="text"
-          placeholder="Your email"
-          value={this.state.email}
-          onChange={this.handleEmailChange}
-        />
-        <input
-          type="text"
-          placeholder="Your name"
-          value={this.state.name}
-          onChange={this.handleNameChange}
-        />
-        <input type="submit" value="Post"/>
-      </form>
-    );
-  }
-});
-
-
 var SitterBox = React.createClass({
-
-  loadSittersFromServer: function () {
-    $.ajax({
-      url: this.props.url,
-      dataType: 'json',
-      cache: false,
-      success: function (data) {
-        this.setState({data: data});
-      }.bind(this),
-      error: function(xhr, status, err) {
-        console.error(this.props.url, status, err.toString());
-      }.bind(this)
-    });
-  },
-
-  handleSitterSubmit: function (sitter) {
-    var sitters = this.state.data;
-    sitter.id = Date.now();
-    var newSitters = sitters.concat([sitter]);
-    this.setState({data: newSitters});
-    $.ajax({
-      url: this.props.url,
-      dataType: 'json',
-      type: 'POST',
-      data: sitter,
-      success: function(data) {
-        this.setState({data: data});
-      }.bind(this),
-      error: function(xhr, status, err) {
-        this.setState({data: sitters});
-        console.error(this.props.url, status, err.toString());
-      }.bind(this)
-    });
-  },
 
   getInitialState: function () {
     return {data: []};
@@ -123,18 +41,30 @@ var SitterBox = React.createClass({
     this.loadSittersFromServer();
     setInterval(this.loadSittersFromServer, this.props.pollInterval)
   },
+
+  loadSittersFromServer: function () {
+    $.ajax({
+      url: this.props.url,
+      dataType: 'json',
+      success: function (data) {
+        this.setState({data: data});
+      }.bind(this),
+      error: function(xhr, status, err) {
+        console.error(this.props.url, status, err.toString());
+      }.bind(this)
+    });
+  },
+
   render: function () {
     return (
-      <div className="sittersBox">
-        <h1>Sitters</h1>
+      <div className="top-rated-list">
         <SittersList data={this.state.data}/>
-        <CommentForm onSitterSubmit={this.handleSitterSubmit}/>
       </div>
     );
   }
 });
 
 ReactDOM.render(
-  <SitterBox url="https://sitters-ws.herokuapp.com/getAllParents" pollInterval={2000}/>,
+  <SitterBox url="https://sitters-ws.herokuapp.com/getTopRatedSitters" pollInterval={2000}/>,
   document.getElementById('content')
 );

diff --git a/public/css/feed.css b/public/css/feed.css
@@ -27,6 +27,16 @@ body {
   font-family: "Avenir-heavy",Helvetica;
 }
 
+h2 {
+  font-size: 70px;
+  width: 50%;
+}
+
+a {
+  text-decoration: none;
+  color: #fff;
+}
+
 #wrapper {
   width: 750px;
   margin: 0 auto;
@@ -37,11 +47,19 @@ header {
   flex-direction: row;
   background: #7ad0f8;
   color: #fff;
-  padding: 96px 5.3%;
+  padding: 96px 5.3% 0px 5.3%;
 }
 
 section {
   padding: 19px 4%;
+  color: #fff;
+}
+
+section a {
+  font-family: "Avenir-heavy-oblique", Helvetica;
+  font-size: 28px;
+  text-align: end;
+  width: 50%;
 }
 
 .greeting {
@@ -55,21 +73,64 @@ section {
 }
 
 img.profile {
-  width: 150px;
-  height: 150px;
+  width: 96px;
+  height: 96px;
+  border-radius: 50%;
+  border: 6px solid #fff;
 }
 
-#date_icon {
+.date-container {
+  display: flex;
+  flex-direction: row;
+  align-items: center;
+  margin-top: 25px;
+}
+
+svg#date_icon {
   width: 10%;
+  padding-right: 5%;
+}
+
+#date_icon path, line, rect {
+  stroke: #fff;
+}
+#date_icon polygon, rect {
+  fill: #fff;
 }
 
 .date {
   font-family: "Avenir-heavy-oblique",Helvetica;
   font-size: 35px;
-  margin-top: 25px;
 }
 
-#filter {
-  width: 20%;
-  height: 20%;
+svg#filter {
+  width: 24%;
+  height: 24%;
+}
+
+svg#filter path {
+  fill: #fff;
+}
+
+section.top-rated {
+  background: #7ad0f8;
+}
+
+.category {
+  display: flex;
+  flex-direction: row;
+  align-items: flex-end;
+}
+
+section.top-rated svg {
+  width: 96px;
+  height: 96px;
+}
+
+section.top-rated svg path {
+  fill: #fff;
+}
+
+.sitter-name {
+  font-size: 28px;
 }
